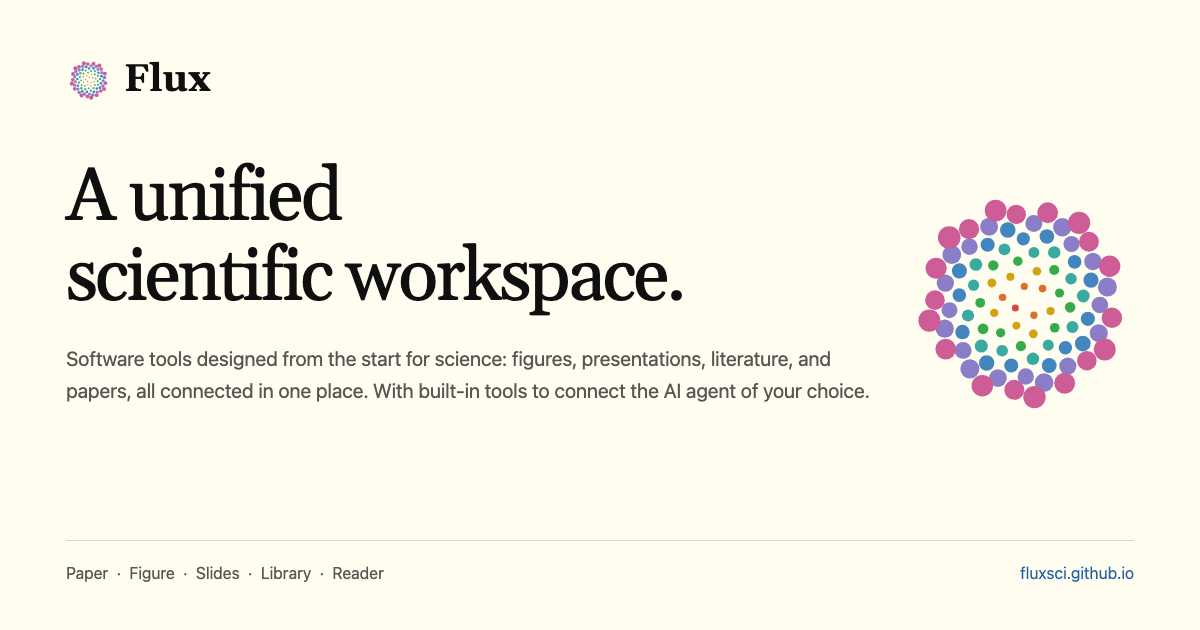
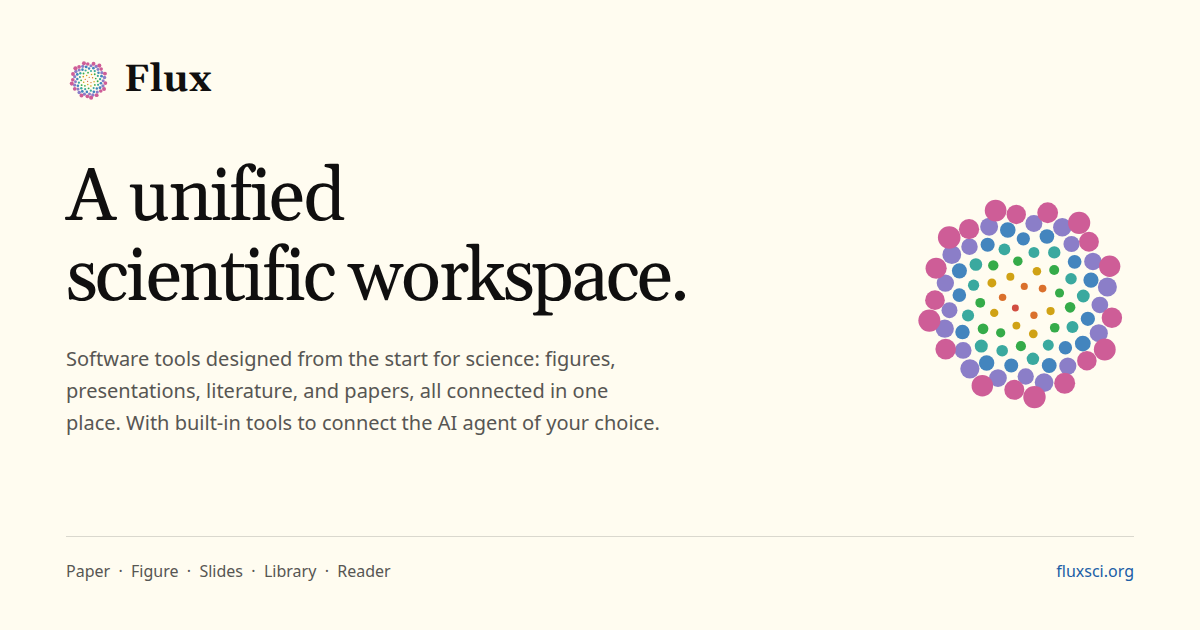
Publish at fluxsci.org
The custom domain is set on GitHub Pages with HTTPS enforced, and
fluxsci.github.io redirects there. Canonical and Open Graph URLs, the
sitemap, robots.txt, the install command, the social card, the README
and the tests now use https://fluxsci.org. The pinned installer script
is unchanged; its old host keeps working through the redirect.

diff --git a/README.md b/README.md
@@ -1,6 +1,6 @@
 # Flux website
 
-The public Flux website at **https://fluxsci.github.io/**, built with Quarto and maintained independently from the application.
+The public Flux website at **https://fluxsci.org/**, built with Quarto and maintained independently from the application.
 
 The site includes a concise visual homepage, installation instructions, and 46 searchable guides and references covering all five workspaces, fluxplot, the command line, agent connections and integrations. Every documentation topic is local. The installation page reflects the current public desktop release.
 

diff --git a/AGENTS.md b/AGENTS.md
@@ -1,7 +1,7 @@
 # Flux public website
 
 This is the independent Quarto website for Flux, intended for the GitHub repository
-`fluxsci/fluxsci.github.io` and `https://fluxsci.github.io/`.
+`fluxsci/fluxsci.github.io`, published at `https://fluxsci.org/` (the old `fluxsci.github.io` host redirects there).
 
 - Current scope is the complete public website and documentation, approved after the first
   review milestone. Keep guides clear and concise, link detailed reference, and publish no empty pages.
